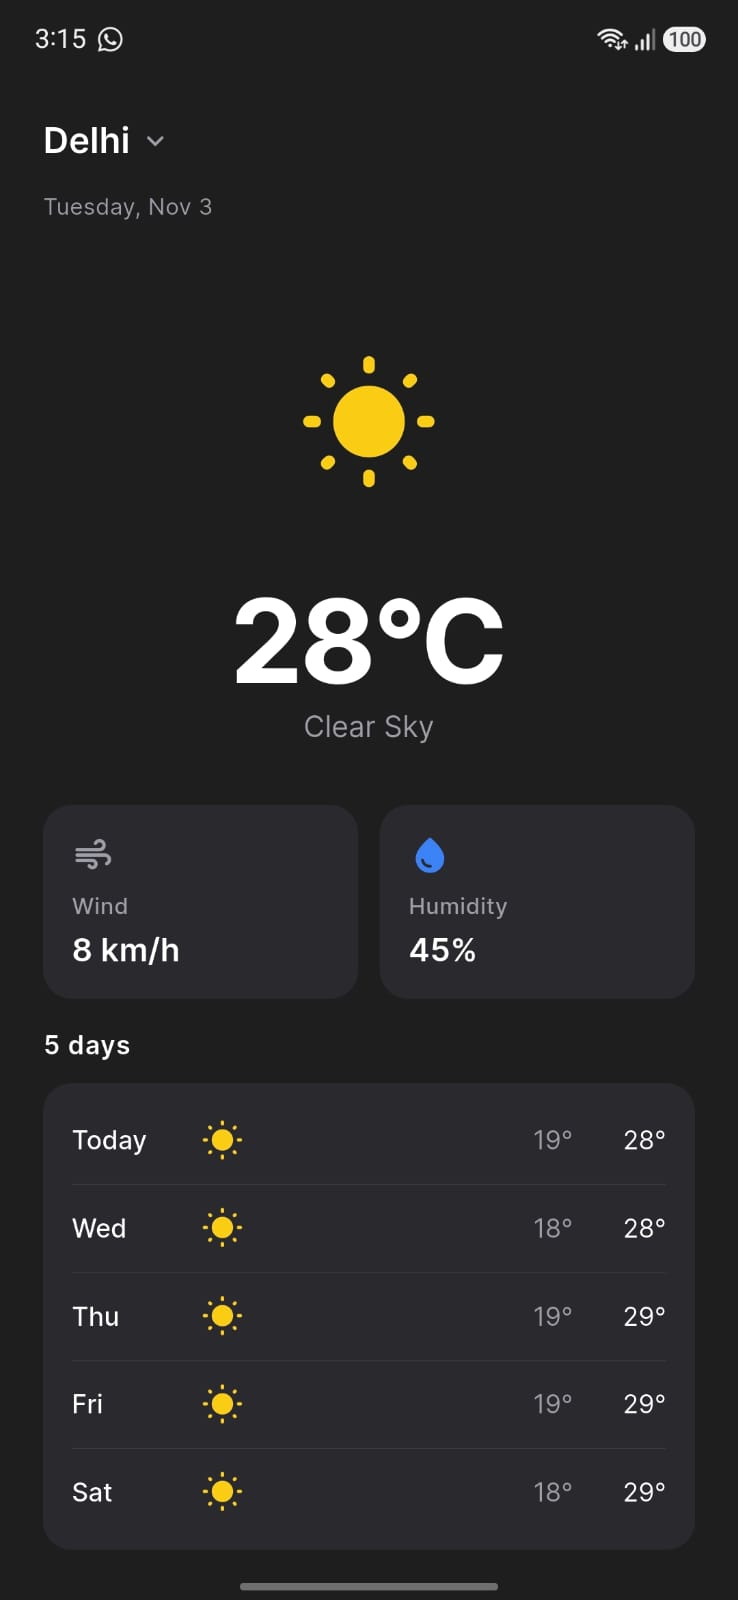
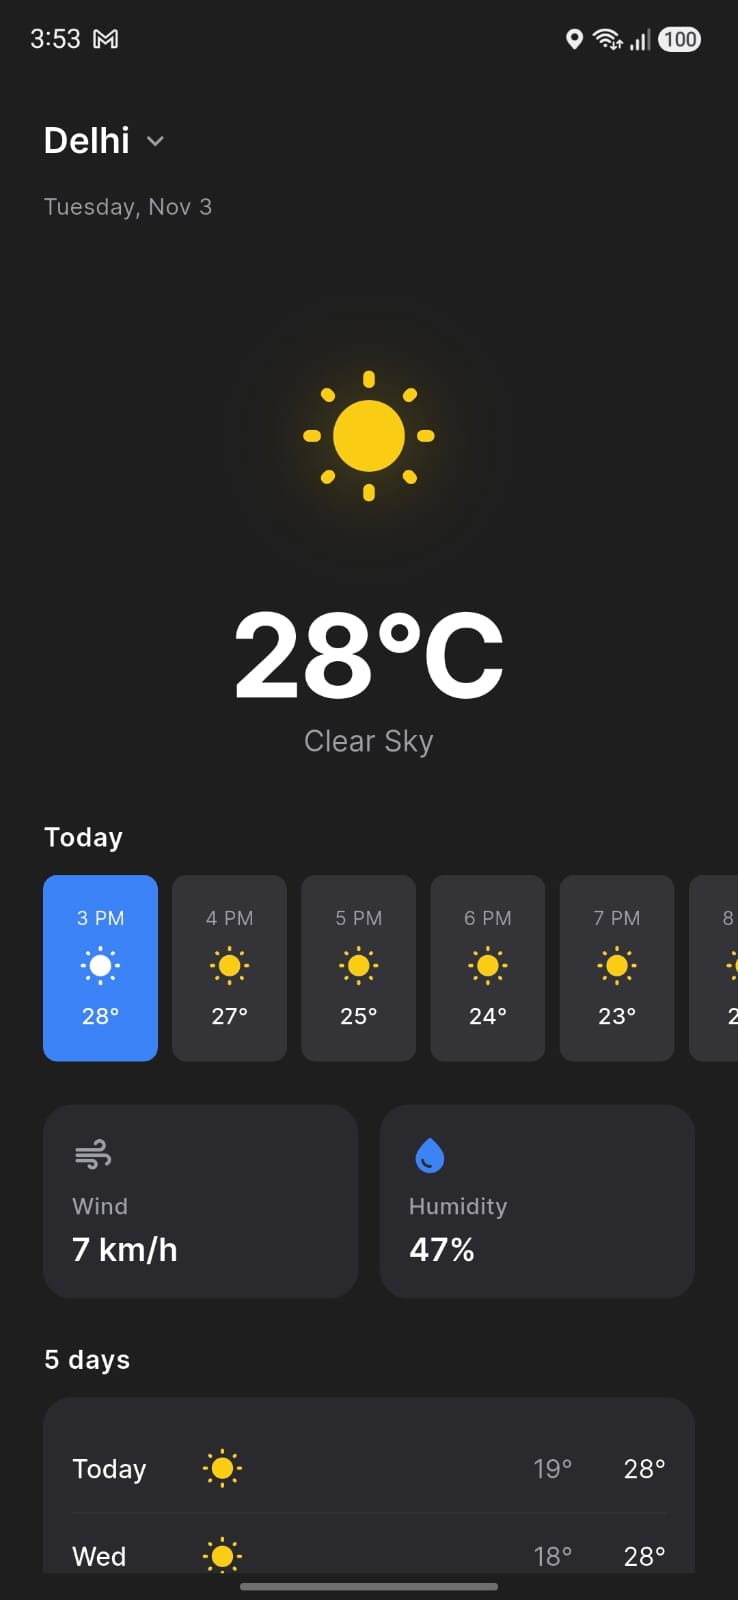
docs(screenshots): update app screenshots and remove duplicates

diff --git a/lib/features/weather/presentation/widgets/hourly_strip.dart b/lib/features/weather/presentation/widgets/hourly_strip.dart
@@ -123,3 +123,4 @@ class _HourlyStripState extends State<HourlyStrip> {
     );
   }
 }
+

diff --git a/lib/features/weather/presentation/widgets/weather_icon_glow.dart b/lib/features/weather/presentation/widgets/weather_icon_glow.dart
@@ -52,3 +52,4 @@ class WeatherIconGlow extends StatelessWidget {
     );
   }
 }
+

diff --git a/lib/features/weather/presentation/widgets/hourly_slot.dart b/lib/features/weather/presentation/widgets/hourly_slot.dart
@@ -108,3 +108,4 @@ class HourlySlot extends StatelessWidget {
     );
   }
 }
+

diff --git a/README.md b/README.md
@@ -115,7 +115,7 @@ Example: searching "London" shows London (England, United Kingdom), London (Onta
 
 | Screen | Description |
 |---|---|
-| ![Main](screenshots/main.png) | Main weather view |
+| ![Main](screenshots/main.jpeg) | Main weather view |
 | ![Search](screenshots/search.png) | City search sheet |
 | ![Error](screenshots/error.png) | Error state |
-| ![Offline](screenshots/offline.png) | Offline with cached data |
+| ![Offline](screenshots/offline.jpeg) | Offline with cached data |
